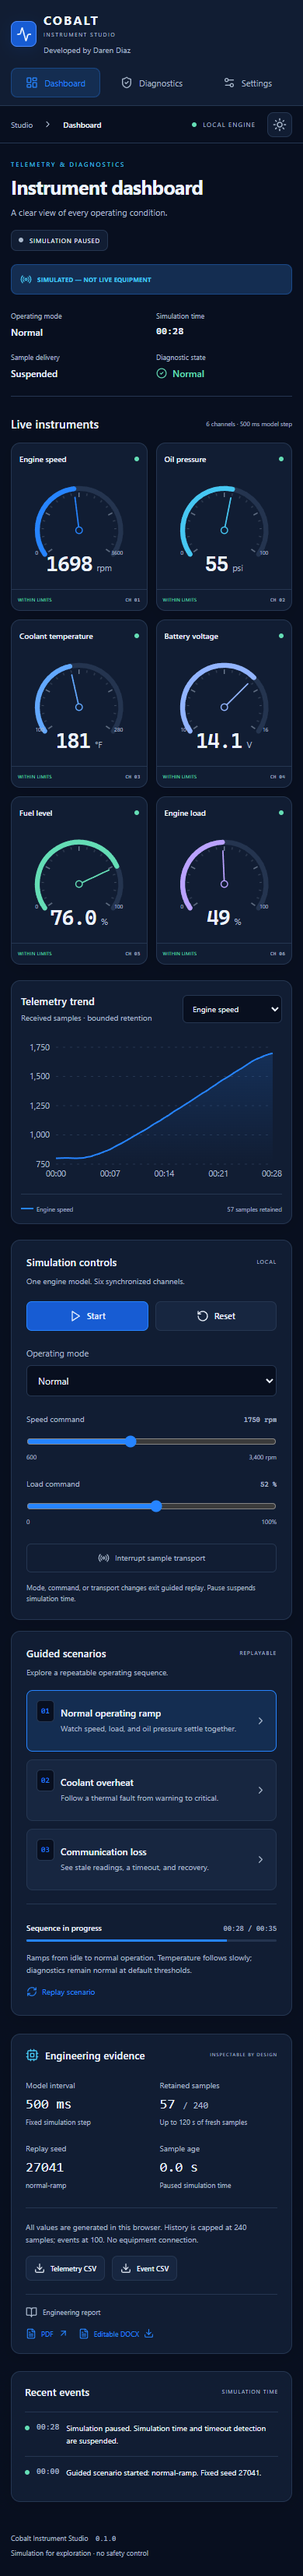
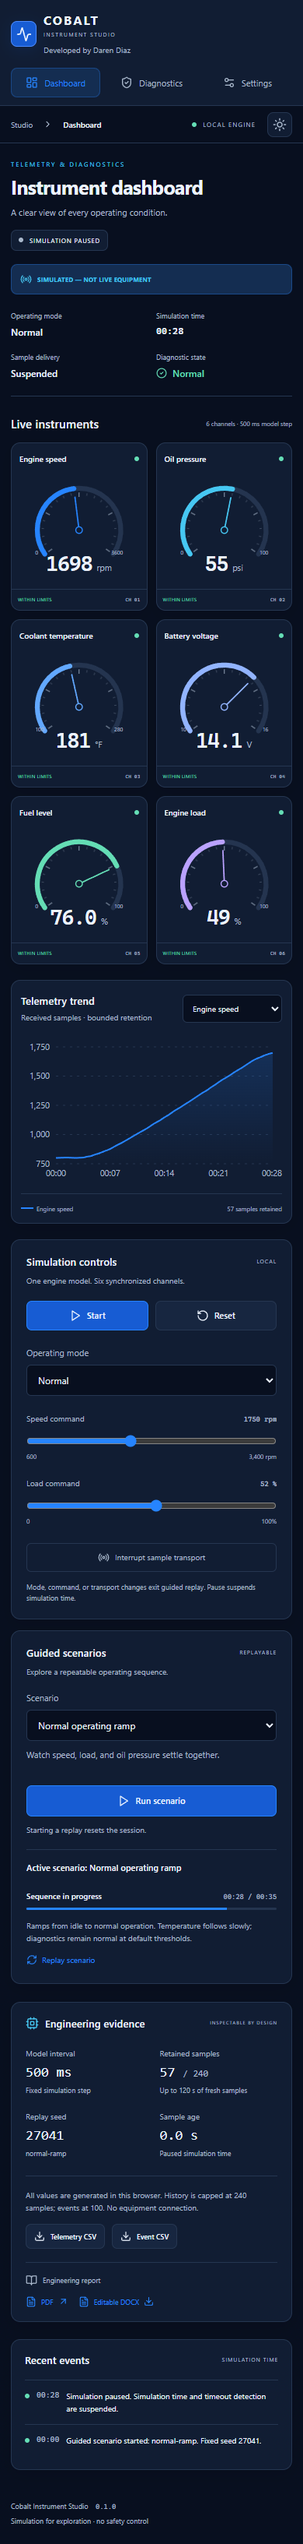
Use compact dropdown for guided scenarios

diff --git a/tests/e2e/studio.spec.ts b/tests/e2e/studio.spec.ts
@@ -55,8 +55,28 @@ test("normal ramp runs all instruments and changes selected trend series", async
 }) => {
   await page.clock.install();
   await page.goto("/");
-  await page.getByRole("button", { name: "Run Normal operating ramp" }).click();
-  await page.clock.runFor(35000);
+  await page.getByLabel("Scenario", { exact: true }).selectOption("overheat");
+  await expect(page.getByTestId("scenario-description")).toContainText(
+    "Follow a thermal fault",
+  );
+  await page.clock.runFor(1000);
+  await expect(page.getByTestId("simulation-time")).toHaveText("00:00");
+  await expect(page.getByTestId("session-status")).toHaveText("READY TO START");
+  await expect(page.getByTestId("scenario-explainer")).toHaveCount(0);
+  await page
+    .getByLabel("Scenario", { exact: true })
+    .selectOption("normal-ramp");
+  await page.getByRole("button", { name: "Run scenario", exact: true }).click();
+  await page.clock.runFor(5000);
+  await page.getByLabel("Scenario", { exact: true }).selectOption("overheat");
+  await expect(page.getByTestId("simulation-time")).toHaveText("00:05");
+  await expect(page.getByTestId("scenario-explainer")).toContainText(
+    "Normal operating ramp",
+  );
+  await expect(page.getByTestId("scenario-explainer")).toContainText(
+    "Ramps from idle to normal operation",
+  );
+  await page.clock.runFor(30000);
   await expect(page.getByTestId("operating-mode")).toHaveText("Normal");
   await expect(page.getByTestId("diagnostic-status")).toHaveText("Normal");
   await expect(page.getByTestId("value-rpm")).toHaveText(/17\d\d/);
@@ -72,6 +92,15 @@ test("normal ramp runs all instruments and changes selected trend series", async
     .click();
   await expect(page.getByTestId("simulation-time")).toHaveText("00:00");
   await expect(page.getByTestId("value-rpm")).toHaveText("800");
+  await expect(page.getByTestId("scenario-explainer")).toContainText(
+    "Normal operating ramp",
+  );
+  await page.getByLabel("Scenario", { exact: true }).selectOption("overheat");
+  await page.getByRole("button", { name: "Run scenario", exact: true }).click();
+  await expect(page.getByTestId("scenario-explainer")).toContainText(
+    "Coolant overheat",
+  );
+  await expect(page.getByTestId("simulation-time")).toHaveText("00:00");
 });
 
 test("overheat warning escalates, acknowledgment records review, reset resolves", async ({
@@ -79,7 +108,8 @@ test("overheat warning escalates, acknowledgment records review, reset resolves"
 }) => {
   await page.clock.install();
   await page.goto("/");
-  await page.getByRole("button", { name: "Run Coolant overheat" }).click();
+  await page.getByLabel("Scenario", { exact: true }).selectOption("overheat");
+  await page.getByRole("button", { name: "Run scenario", exact: true }).click();
   await page.clock.runFor(17500);
   await page.getByRole("button", { name: "Diagnostics", exact: true }).click();
   await expect(page.getByTestId("alert-coolantTemp")).toContainText("warning");
@@ -116,7 +146,10 @@ test("communication loss freezes values, marks stale, and restores automatically
 }) => {
   await page.clock.install();
   await page.goto("/");
-  await page.getByRole("button", { name: "Run Communication loss" }).click();
+  await page
+    .getByLabel("Scenario", { exact: true })
+    .selectOption("communication-loss");
+  await page.getByRole("button", { name: "Run scenario", exact: true }).click();
   await page.clock.runFor(4500);
   const fuel = await page.getByTestId("value-fuelLevel").innerText();
   const count = await page.getByTestId("sample-count").innerText();
@@ -212,7 +245,10 @@ test("desktop and mobile remain usable and produce authentic screenshots", async
 }) => {
   await page.clock.install();
   await page.goto("/");
-  await page.getByRole("button", { name: "Run Normal operating ramp" }).click();
+  await page
+    .getByLabel("Scenario", { exact: true })
+    .selectOption("normal-ramp");
+  await page.getByRole("button", { name: "Run scenario", exact: true }).click();
   await page.clock.runFor(28000);
   await page.getByRole("button", { name: "Pause simulation" }).click();
   await mkdir("docs/assets", { recursive: true });
@@ -236,7 +272,10 @@ test("desktop and mobile remain usable and produce authentic screenshots", async
     await page.evaluate(() => document.documentElement.scrollWidth),
   ).toBeLessThanOrEqual(390);
   await page.getByRole("button", { name: "Diagnostics", exact: true }).click();
-  await page.getByRole("button", { name: "Run Communication loss" }).click();
+  await page
+    .getByLabel("Scenario", { exact: true })
+    .selectOption("communication-loss");
+  await page.getByRole("button", { name: "Run scenario", exact: true }).click();
   await page.clock.runFor(11000);
   await expect(page.getByTestId("alert-communication")).toBeVisible();
   expect(

diff --git a/src/components/ControlPanel.tsx b/src/components/ControlPanel.tsx
@@ -1,14 +1,8 @@
-import {
-  Play,
-  Pause,
-  RotateCcw,
-  Radio,
-  ChevronRight,
-  RefreshCw,
-} from "lucide-react";
+import { useState } from "react";
+import { Play, Pause, RotateCcw, Radio, RefreshCw } from "lucide-react";
 import { formatTime, scenarios } from "../engine/model";
 import type { Action } from "../engine/studio";
-import type { Mode, StudioState } from "../engine/types";
+import type { Mode, ScenarioId, StudioState } from "../engine/types";
 
 export function ControlPanel({
   state,
@@ -18,6 +12,10 @@ export function ControlPanel({
   dispatch: React.Dispatch<Action>;
 }) {
   const s = state.simulation;
+  const [selectedId, setSelectedId] = useState<Exclude<ScenarioId, "manual">>(
+    s.scenario === "manual" ? "normal-ramp" : s.scenario,
+  );
+  const selectedScenario = scenarios.find((item) => item.id === selectedId)!;
   const scenario = scenarios.find((item) => item.id === s.scenario);
   const progress = scenario
     ? Math.min(100, (s.time / scenario.duration) * 100)
@@ -139,26 +137,49 @@ export function ControlPanel({
           <span className="small-label">REPLAYABLE</span>
         </div>
         <p className="muted small">Explore a repeatable operating sequence.</p>
-        <div className="scenario-list">
-          {scenarios.map((item) => (
-            <button
-              key={item.id}
-              className={`scenario-option ${s.scenario === item.id ? "selected" : ""}`}
-              onClick={() => dispatch({ type: "scenario", scenario: item.id })}
-              aria-label={`Run ${item.title}`}
-              aria-pressed={s.scenario === item.id}
-            >
-              <span className="scenario-number">{item.number}</span>
-              <span>
-                <strong>{item.title}</strong>
-                <small>{item.description}</small>
-              </span>
-              <ChevronRight size={15} />
-            </button>
-          ))}
+        <div className="scenario-picker">
+          <label className="field-label" htmlFor="guided-scenario">
+            Scenario
+          </label>
+          <select
+            id="guided-scenario"
+            value={selectedId}
+            aria-describedby="scenario-description"
+            onChange={(event) => {
+              const selected = scenarios.find(
+                (item) => item.id === event.target.value,
+              );
+              if (selected) setSelectedId(selected.id);
+            }}
+          >
+            {scenarios.map((item) => (
+              <option key={item.id} value={item.id}>
+                {item.title}
+              </option>
+            ))}
+          </select>
+          <p
+            id="scenario-description"
+            className="scenario-description"
+            data-testid="scenario-description"
+          >
+            {selectedScenario.description}
+          </p>
+          <button
+            className="button primary scenario-run"
+            onClick={() => dispatch({ type: "scenario", scenario: selectedId })}
+          >
+            <Play size={16} /> Run scenario
+          </button>
+          <p className="micro muted scenario-start-note">
+            Starting a replay resets the session.
+          </p>
         </div>
         {scenario && (
           <div className="scenario-explainer" data-testid="scenario-explainer">
+            <strong className="scenario-active">
+              Active scenario: {scenario.title}
+            </strong>
             <div className="range-label">
               <strong>
                 {progress >= 100 ? "Sequence complete" : "Sequence in progress"}

diff --git a/src/styles.css b/src/styles.css
@@ -728,54 +728,28 @@ input[type="range"] {
   margin-top: 12px;
   font-size: 9px;
 }
-.scenario-list {
-  margin-top: 15px;
-  display: grid;
-  gap: 10px;
+.scenario-picker {
+  margin-top: 18px;
 }
-.scenario-option {
-  display: flex;
-  align-items: center;
-  gap: 10px;
-  border: 1px solid var(--border);
-  border-radius: 8px;
-  background: var(--panel-raised);
-  padding: 12px 10px;
-  text-align: left;
-  width: 100%;
-  min-height: 79px;
-}
-.scenario-option:hover,
-.scenario-option.selected {
-  border-color: var(--accent);
-  background: var(--accent-soft);
-}
-.scenario-number {
-  color: var(--accent);
-  font-family: Consolas, monospace;
-  font-size: 10px;
-  background: var(--bg);
-  border: 1px solid var(--border);
-  padding: 7px 5px;
-  border-radius: 5px;
-  align-self: flex-start;
-}
-.scenario-option strong {
-  display: block;
-  font-size: 10px;
-  font-weight: 550;
-}
-.scenario-option small {
-  display: block;
-  font-size: 9px;
+.scenario-description {
+  font-size: 11px;
   color: var(--muted);
   line-height: 1.5;
-  margin-top: 5px;
+  margin: 10px 0 14px;
+  min-height: 33px;
 }
-.scenario-option > svg {
-  flex-shrink: 0;
-  color: var(--muted);
-  margin-left: auto;
+.scenario-run {
+  width: 100%;
+  min-height: 40px;
+}
+.scenario-start-note {
+  margin-top: 9px;
+}
+.scenario-active {
+  display: block;
+  font-size: 11px;
+  font-weight: 600;
+  margin-top: 14px;
 }
 .scenario-explainer {
   border-top: 1px solid var(--border);
@@ -1222,12 +1196,6 @@ input[type="range"] {
   .trend-chart {
     height: 230px;
   }
-  .scenario-option strong {
-    font-size: 11px;
-  }
-  .scenario-option small {
-    font-size: 10px;
-  }
   .controls-panel > .small,
   .scenario-panel > .small {
     font-size: 11px;
@@ -1547,16 +1515,6 @@ input[type="range"] {
   .scenario-panel {
     padding: 16px;
   }
-  .scenario-option {
-    padding: 10px 8px;
-    gap: 8px;
-  }
-  .scenario-option strong {
-    font-size: 10px;
-  }
-  .scenario-option small {
-    font-size: 9px;
-  }
   .evidence-panel {
     padding: 18px;
   }
@@ -1656,15 +1614,6 @@ input[type="range"] {
   .controls-panel,
   .scenario-panel {
     padding: 19px;
-  }
-  .scenario-option strong {
-    font-size: 12px;
-  }
-  .scenario-option small {
-    font-size: 10px;
-  }
-  .scenario-option {
-    padding: 12px;
   }
   .scenario-panel .small-label {
     font-size: 7px;

diff --git a/src/App.tsx b/src/App.tsx
@@ -211,11 +211,11 @@ export function App() {
             <section className="panel help-panel">
               <h2>Explore the simulator</h2>
               <p>
-                Select a guided scenario to start a repeatable run. Watch the
-                instruments, then open Diagnostics to inspect transitions and
-                acknowledge alerts. Pause freezes simulation time; Reset starts
-                a fresh session. Settings persist only display and threshold
-                preferences.
+                Choose a guided scenario, then select Run scenario to start a
+                repeatable run. Watch the instruments, then open Diagnostics to
+                inspect transitions and acknowledge alerts. Pause freezes
+                simulation time; Reset starts a fresh session. Settings persist
+                only display and threshold preferences.
               </p>
               <p>
                 Coolant overheat reaches warning and critical conditions.

diff --git a/src/components/TrendChart.tsx b/src/components/TrendChart.tsx
@@ -49,7 +49,7 @@ export function TrendChart({
         <div className="chart-empty">
           <span className="pulse-line">⌁</span>
           <strong>Ready to capture telemetry</strong>
-          <p>Start the simulator or select a guided scenario.</p>
+          <p>Start the simulator or run a guided scenario.</p>
         </div>
       ) : (
         <ResponsiveContainer width="100%" height="100%" minWidth={0}>

diff --git a/README.md b/README.md
@@ -14,7 +14,7 @@ An original industrial telemetry simulator built to make operating behavior insp
 
 Open the [live Netlify demo](https://cobalt-instrument-studio.netlify.app/) or the independent [GitHub Pages backup](https://cloudwizardboricua.github.io/cobalt-instrument-studio/). The [public source repository](https://github.com/CloudWizardBoricua/cobalt-instrument-studio) uses `main` as its default branch. Both sites serve static assets and run the simulation in your browser.
 
-Start the simulation, choose Idle, Normal, High Load, or Fault, and adjust speed/load commands. Pause freezes simulation time; Reset creates a fresh session. The guided scenarios use seed `27041`:
+Start the simulation, choose Idle, Normal, High Load, or Fault, and adjust speed/load commands. Pause freezes simulation time; Reset creates a fresh session. Choose a guided scenario from the dropdown, then select **Run scenario**. Choosing an option alone does not interrupt the current replay. The guided scenarios use seed `27041`:
 
 - **Normal operating ramp:** moves from idle to normal speed and load while oil pressure follows and temperature responds slowly.
 - **Coolant overheat:** introduces cooling degradation at 6 simulated seconds. With defaults, coolant warning begins at 14 s and critical at 18.5 s.

diff --git a/CHANGELOG.md b/CHANGELOG.md
@@ -4,6 +4,7 @@ _Developed by Daren Diaz_
 
 ## Unreleased
 
+- Replaced guided scenario cards with a compact dropdown, descriptions, and an explicit Run scenario action; retained active replay progress and replay controls.
 - Further interface improvements remain planned work.
 
 ## 0.1.0 — Fall 2026
